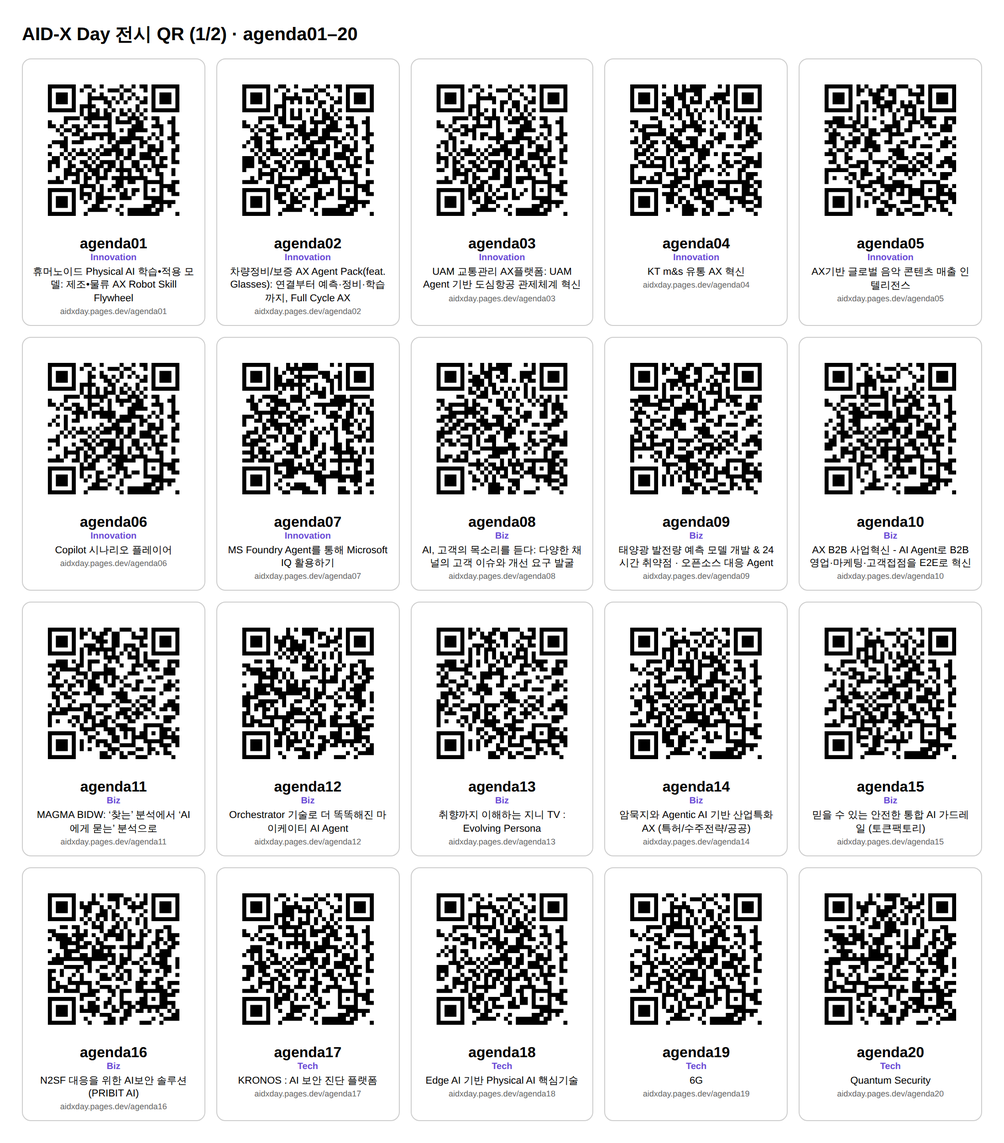
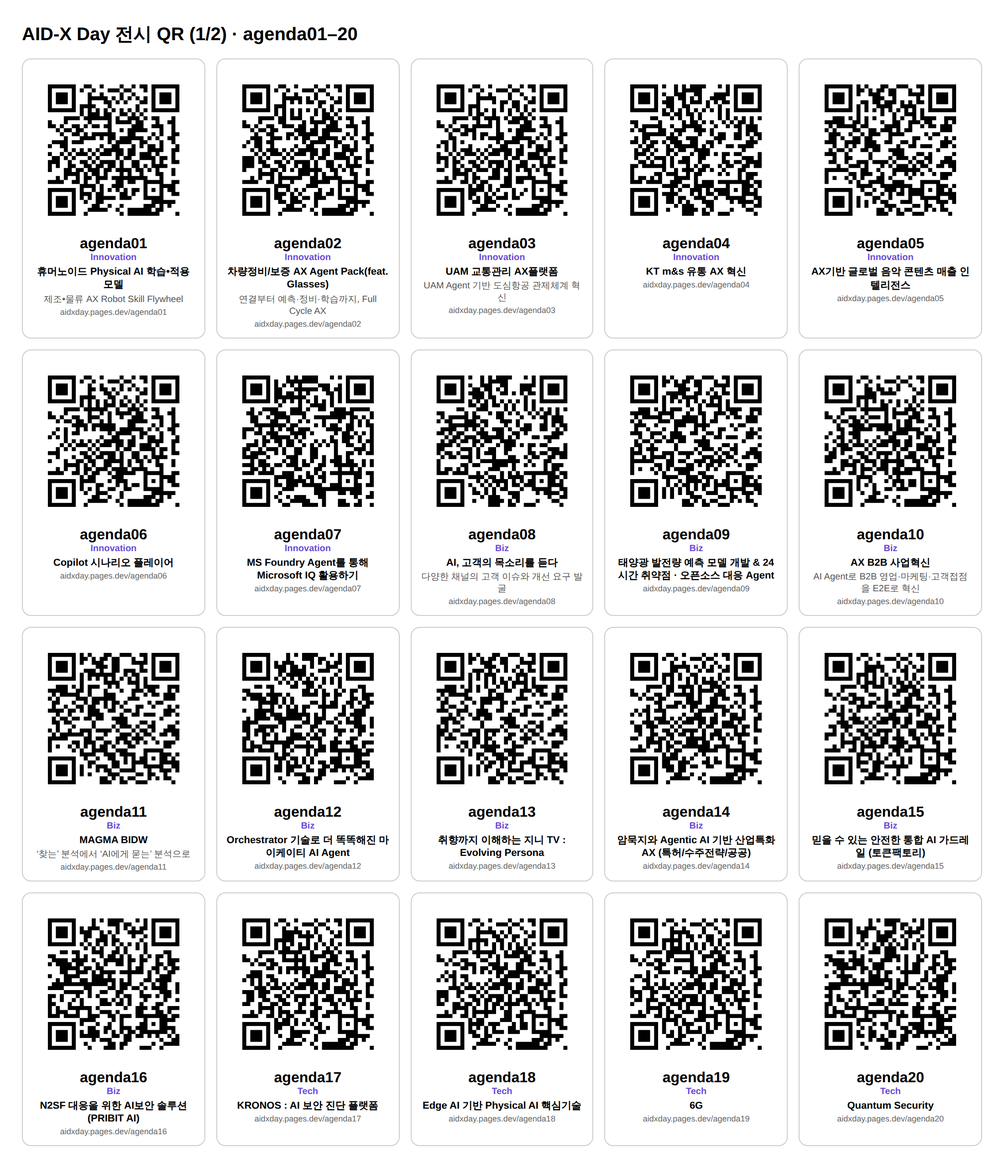
Sync aidx-day: exhibit subtitles as separate lighter line; refresh QR sheets
Claude-Session: https://claude.ai/code/session_01ERFEuNLNeBDcTGC9L6qXGy

diff --git a/aidx-day-qr/agenda/sheet-1.html b/aidx-day-qr/agenda/sheet-1.html
@@ -1,1 +1,1 @@
-<!doctype html><meta charset=utf-8><title>AID-X Day 전시 QR (1/2) · agenda01–20</title><style>body{font-family:"Apple SD Gothic Neo","Malgun Gothic",sans-serif;margin:24px;width:1052px}h1{font-size:20px}.g{display:grid;grid-template-columns:repeat(5,1fr);gap:12px}.c{border:1px solid #ccc;border-radius:10px;padding:10px;text-align:center}.c img{width:100%}.n{font-weight:800}.z{font-size:10px;color:#6a4bd6;font-weight:700}.t{font-size:11px;margin-top:3px;line-height:1.3}.u{font-size:9px;color:#666;margin-top:2px}</style><h1>AID-X Day 전시 QR (1/2) · agenda01–20</h1><div class=g><div class=c><img src="agenda01.svg"><div class=n>agenda01</div><div class=z>Innovation</div><div class=t>휴머노이드 Physical AI 학습•적용 모델: 제조•물류 AX Robot Skill Flywheel</div><div class=u>aidxday.pages.dev/agenda01</div></div><div class=c><img src="agenda02.svg"><div class=n>agenda02</div><div class=z>Innovation</div><div class=t>차량정비/보증 AX Agent Pack(feat. Glasses): 연결부터 예측·정비·학습까지, Full Cycle AX</div><div class=u>aidxday.pages.dev/agenda02</div></div><div class=c><img src="agenda03.svg"><div class=n>agenda03</div><div class=z>Innovation</div><div class=t>UAM 교통관리 AX플랫폼: UAM Agent 기반 도심항공 관제체계 혁신</div><div class=u>aidxday.pages.dev/agenda03</div></div><div class=c><img src="agenda04.svg"><div class=n>agenda04</div><div class=z>Innovation</div><div class=t>KT m&amp;s 유통 AX 혁신</div><div class=u>aidxday.pages.dev/agenda04</div></div><div class=c><img src="agenda05.svg"><div class=n>agenda05</div><div class=z>Innovation</div><div class=t>AX기반 글로벌 음악 콘텐츠 매출 인텔리전스</div><div class=u>aidxday.pages.dev/agenda05</div></div><div class=c><img src="agenda06.svg"><div class=n>agenda06</div><div class=z>Innovation</div><div class=t>Copilot 시나리오 플레이어</div><div class=u>aidxday.pages.dev/agenda06</div></div><div class=c><img src="agenda07.svg"><div class=n>agenda07</div><div class=z>Innovation</div><div class=t>MS Foundry Agent를 통해 Microsoft IQ 활용하기</div><div class=u>aidxday.pages.dev/agenda07</div></div><div class=c><img src="agenda08.svg"><div class=n>agenda08</div><div class=z>Biz</div><div class=t>AI, 고객의 목소리를 듣다: 다양한 채널의 고객 이슈와 개선 요구 발굴</div><div class=u>aidxday.pages.dev/agenda08</div></div><div class=c><img src="agenda09.svg"><div class=n>agenda09</div><div class=z>Biz</div><div class=t>태양광 발전량 예측 모델 개발 &amp; 24시간 취약점 · 오픈소스 대응 Agent</div><div class=u>aidxday.pages.dev/agenda09</div></div><div class=c><img src="agenda10.svg"><div class=n>agenda10</div><div class=z>Biz</div><div class=t>AX B2B 사업혁신 - AI Agent로 B2B 영업·마케팅·고객접점을 E2E로 혁신</div><div class=u>aidxday.pages.dev/agenda10</div></div><div class=c><img src="agenda11.svg"><div class=n>agenda11</div><div class=z>Biz</div><div class=t>MAGMA BIDW: ‘찾는’ 분석에서 ‘AI에게 묻는’ 분석으로</div><div class=u>aidxday.pages.dev/agenda11</div></div><div class=c><img src="agenda12.svg"><div class=n>agenda12</div><div class=z>Biz</div><div class=t>Orchestrator 기술로 더 똑똑해진 마이케이티 AI Agent</div><div class=u>aidxday.pages.dev/agenda12</div></div><div class=c><img src="agenda13.svg"><div class=n>agenda13</div><div class=z>Biz</div><div class=t>취향까지 이해하는 지니 TV : Evolving Persona</div><div class=u>aidxday.pages.dev/agenda13</div></div><div class=c><img src="agenda14.svg"><div class=n>agenda14</div><div class=z>Biz</div><div class=t>암묵지와 Agentic AI 기반 산업특화 AX (특허/수주전략/공공)</div><div class=u>aidxday.pages.dev/agenda14</div></div><div class=c><img src="agenda15.svg"><div class=n>agenda15</div><div class=z>Biz</div><div class=t>믿을 수 있는 안전한 통합 AI 가드레일 (토큰팩토리)</div><div class=u>aidxday.pages.dev/agenda15</div></div><div class=c><img src="agenda16.svg"><div class=n>agenda16</div><div class=z>Biz</div><div class=t>N2SF 대응을 위한 AI보안 솔루션 (PRIBIT AI)</div><div class=u>aidxday.pages.dev/agenda16</div></div><div class=c><img src="agenda17.svg"><div class=n>agenda17</div><div class=z>Tech</div><div class=t>KRONOS : AI 보안 진단 플랫폼</div><div class=u>aidxday.pages.dev/agenda17</div></div><div class=c><img src="agenda18.svg"><div class=n>agenda18</div><div class=z>Tech</div><div class=t>Edge AI 기반 Physical AI 핵심기술</div><div class=u>aidxday.pages.dev/agenda18</div></div><div class=c><img src="agenda19.svg"><div class=n>agenda19</div><div class=z>Tech</div><div class=t>6G</div><div class=u>aidxday.pages.dev/agenda19</div></div><div class=c><img src="agenda20.svg"><div class=n>agenda20</div><div class=z>Tech</div><div class=t>Quantum Security</div><div class=u>aidxday.pages.dev/agenda20</div></div></div>
+<!doctype html><meta charset=utf-8><title>AID-X Day 전시 QR (1/2) · agenda01–20</title><style>body{font-family:"Apple SD Gothic Neo","Malgun Gothic",sans-serif;margin:24px;width:1052px}h1{font-size:20px}.g{display:grid;grid-template-columns:repeat(5,1fr);gap:12px}.c{border:1px solid #ccc;border-radius:10px;padding:10px;text-align:center}.c img{width:100%}.n{font-weight:800}.z{font-size:10px;color:#6a4bd6;font-weight:700}.t{font-size:11px;margin-top:3px;line-height:1.3}.t{font-weight:700}.s{font-size:10px;color:#555;margin-top:2px;line-height:1.3}.u{font-size:9px;color:#666;margin-top:2px}</style><h1>AID-X Day 전시 QR (1/2) · agenda01–20</h1><div class=g><div class=c><img src="agenda01.svg"><div class=n>agenda01</div><div class=z>Innovation</div><div class=t>휴머노이드 Physical AI 학습•적용 모델</div><div class=s>제조•물류 AX Robot Skill Flywheel</div><div class=u>aidxday.pages.dev/agenda01</div></div><div class=c><img src="agenda02.svg"><div class=n>agenda02</div><div class=z>Innovation</div><div class=t>차량정비/보증 AX Agent Pack(feat. Glasses)</div><div class=s>연결부터 예측·정비·학습까지, Full Cycle AX</div><div class=u>aidxday.pages.dev/agenda02</div></div><div class=c><img src="agenda03.svg"><div class=n>agenda03</div><div class=z>Innovation</div><div class=t>UAM 교통관리 AX플랫폼</div><div class=s>UAM Agent 기반 도심항공 관제체계 혁신</div><div class=u>aidxday.pages.dev/agenda03</div></div><div class=c><img src="agenda04.svg"><div class=n>agenda04</div><div class=z>Innovation</div><div class=t>KT m&amp;s 유통 AX 혁신</div><div class=u>aidxday.pages.dev/agenda04</div></div><div class=c><img src="agenda05.svg"><div class=n>agenda05</div><div class=z>Innovation</div><div class=t>AX기반 글로벌 음악 콘텐츠 매출 인텔리전스</div><div class=u>aidxday.pages.dev/agenda05</div></div><div class=c><img src="agenda06.svg"><div class=n>agenda06</div><div class=z>Innovation</div><div class=t>Copilot 시나리오 플레이어</div><div class=u>aidxday.pages.dev/agenda06</div></div><div class=c><img src="agenda07.svg"><div class=n>agenda07</div><div class=z>Innovation</div><div class=t>MS Foundry Agent를 통해 Microsoft IQ 활용하기</div><div class=u>aidxday.pages.dev/agenda07</div></div><div class=c><img src="agenda08.svg"><div class=n>agenda08</div><div class=z>Biz</div><div class=t>AI, 고객의 목소리를 듣다</div><div class=s>다양한 채널의 고객 이슈와 개선 요구 발굴</div><div class=u>aidxday.pages.dev/agenda08</div></div><div class=c><img src="agenda09.svg"><div class=n>agenda09</div><div class=z>Biz</div><div class=t>태양광 발전량 예측 모델 개발 &amp; 24시간 취약점 · 오픈소스 대응 Agent</div><div class=u>aidxday.pages.dev/agenda09</div></div><div class=c><img src="agenda10.svg"><div class=n>agenda10</div><div class=z>Biz</div><div class=t>AX B2B 사업혁신</div><div class=s>AI Agent로 B2B 영업·마케팅·고객접점을 E2E로 혁신</div><div class=u>aidxday.pages.dev/agenda10</div></div><div class=c><img src="agenda11.svg"><div class=n>agenda11</div><div class=z>Biz</div><div class=t>MAGMA BIDW</div><div class=s>‘찾는’ 분석에서 ‘AI에게 묻는’ 분석으로</div><div class=u>aidxday.pages.dev/agenda11</div></div><div class=c><img src="agenda12.svg"><div class=n>agenda12</div><div class=z>Biz</div><div class=t>Orchestrator 기술로 더 똑똑해진 마이케이티 AI Agent</div><div class=u>aidxday.pages.dev/agenda12</div></div><div class=c><img src="agenda13.svg"><div class=n>agenda13</div><div class=z>Biz</div><div class=t>취향까지 이해하는 지니 TV : Evolving Persona</div><div class=u>aidxday.pages.dev/agenda13</div></div><div class=c><img src="agenda14.svg"><div class=n>agenda14</div><div class=z>Biz</div><div class=t>암묵지와 Agentic AI 기반 산업특화 AX (특허/수주전략/공공)</div><div class=u>aidxday.pages.dev/agenda14</div></div><div class=c><img src="agenda15.svg"><div class=n>agenda15</div><div class=z>Biz</div><div class=t>믿을 수 있는 안전한 통합 AI 가드레일 (토큰팩토리)</div><div class=u>aidxday.pages.dev/agenda15</div></div><div class=c><img src="agenda16.svg"><div class=n>agenda16</div><div class=z>Biz</div><div class=t>N2SF 대응을 위한 AI보안 솔루션 (PRIBIT AI)</div><div class=u>aidxday.pages.dev/agenda16</div></div><div class=c><img src="agenda17.svg"><div class=n>agenda17</div><div class=z>Tech</div><div class=t>KRONOS : AI 보안 진단 플랫폼</div><div class=u>aidxday.pages.dev/agenda17</div></div><div class=c><img src="agenda18.svg"><div class=n>agenda18</div><div class=z>Tech</div><div class=t>Edge AI 기반 Physical AI 핵심기술</div><div class=u>aidxday.pages.dev/agenda18</div></div><div class=c><img src="agenda19.svg"><div class=n>agenda19</div><div class=z>Tech</div><div class=t>6G</div><div class=u>aidxday.pages.dev/agenda19</div></div><div class=c><img src="agenda20.svg"><div class=n>agenda20</div><div class=z>Tech</div><div class=t>Quantum Security</div><div class=u>aidxday.pages.dev/agenda20</div></div></div>

diff --git a/aidx-day-qr/agenda/sheet-2.html b/aidx-day-qr/agenda/sheet-2.html
@@ -1,1 +1,1 @@
-<!doctype html><meta charset=utf-8><title>AID-X Day 전시 QR (2/2) · agenda21–40</title><style>body{font-family:"Apple SD Gothic Neo","Malgun Gothic",sans-serif;margin:24px;width:1052px}h1{font-size:20px}.g{display:grid;grid-template-columns:repeat(5,1fr);gap:12px}.c{border:1px solid #ccc;border-radius:10px;padding:10px;text-align:center}.c img{width:100%}.n{font-weight:800}.z{font-size:10px;color:#6a4bd6;font-weight:700}.t{font-size:11px;margin-top:3px;line-height:1.3}.u{font-size:9px;color:#666;margin-top:2px}</style><h1>AID-X Day 전시 QR (2/2) · agenda21–40</h1><div class=g><div class=c><img src="agenda21.svg"><div class=n>agenda21</div><div class=z>Tech</div><div class=t>Autonomous Operation: ① AI Operator</div><div class=u>aidxday.pages.dev/agenda21</div></div><div class=c><img src="agenda22.svg"><div class=n>agenda22</div><div class=z>Tech</div><div class=t>Autonomous Operation: ② Infra Robot</div><div class=u>aidxday.pages.dev/agenda22</div></div><div class=c><img src="agenda23.svg"><div class=n>agenda23</div><div class=z>Tech</div><div class=t>고객·네트워크 보호</div><div class=u>aidxday.pages.dev/agenda23</div></div><div class=c><img src="agenda24.svg"><div class=n>agenda24</div><div class=z>Work</div><div class=t>kode: - 기획부터 설계/개발 그리고 자산화까지, AI 네이티브 개발 플랫폼</div><div class=u>aidxday.pages.dev/agenda24</div></div><div class=c><img src="agenda25.svg"><div class=n>agenda25</div><div class=z>Work</div><div class=t>AI로 하는 디자인: KDS(KT Design System) 기반 기획-디자인-개발을 AI로 연계해 생산성 향상</div><div class=u>aidxday.pages.dev/agenda25</div></div><div class=c><img src="agenda26.svg"><div class=n>agenda26</div><div class=z>Work</div><div class=t>AX Works, 전사 AI·Agent 활용을 위한 통합 플랫폼</div><div class=u>aidxday.pages.dev/agenda26</div></div><div class=c><img src="agenda27.svg"><div class=n>agenda27</div><div class=z>Work</div><div class=t>AgentOps 거버넌스플랫폼 Metis.AI</div><div class=u>aidxday.pages.dev/agenda27</div></div><div class=c><img src="agenda28.svg"><div class=n>agenda28</div><div class=z>Work</div><div class=t>AI로 완성하는 코드 전환, Auto Builder</div><div class=u>aidxday.pages.dev/agenda28</div></div><div class=c><img src="agenda29.svg"><div class=n>agenda29</div><div class=z>Work</div><div class=t>AI Agent 기반 장애 분석 플랫폼</div><div class=u>aidxday.pages.dev/agenda29</div></div><div class=c><img src="agenda30.svg"><div class=n>agenda30</div><div class=z>AX Tech Connect</div><div class=t>KT AI 경쟁력 믿:음 K 3.0 / Arena</div><div class=u>aidxday.pages.dev/agenda30</div></div><div class=c><img src="agenda31.svg"><div class=n>agenda31</div><div class=z>AX Tech Connect</div><div class=t>차세대 음성 에이전트 Full-Duplex Speech to Speech</div><div class=u>aidxday.pages.dev/agenda31</div></div><div class=c><img src="agenda32.svg"><div class=n>agenda32</div><div class=z>AX Tech Connect</div><div class=t>나만의 1:1 Agent KT-Claw (모두의 AI)</div><div class=u>aidxday.pages.dev/agenda32</div></div><div class=c><img src="agenda33.svg"><div class=n>agenda33</div><div class=z>AX Tech Connect</div><div class=t>소상공인 맞춤상담 Agent (모두의 AI)</div><div class=u>aidxday.pages.dev/agenda33</div></div><div class=c><img src="agenda34.svg"><div class=n>agenda34</div><div class=z>AX Tech Connect</div><div class=t>프롬프트 압축 KompaKT (토큰팩토리)</div><div class=u>aidxday.pages.dev/agenda34</div></div><div class=c><img src="agenda35.svg"><div class=n>agenda35</div><div class=z>AX Tech Connect</div><div class=t>최적의 AI 선택 Model Router (토큰팩토리)</div><div class=u>aidxday.pages.dev/agenda35</div></div><div class=c><img src="agenda36.svg"><div class=n>agenda36</div><div class=z>AX Tech Connect</div><div class=t>기업의 데이터 의미를 이해하는 KT Ontology 구축</div><div class=u>aidxday.pages.dev/agenda36</div></div><div class=c><img src="agenda37.svg"><div class=n>agenda37</div><div class=z>AX Tech Connect</div><div class=t>기업의 업무를 실행하는 KT Ontology 활용</div><div class=u>aidxday.pages.dev/agenda37</div></div><div class=c><img src="agenda38.svg"><div class=n>agenda38</div><div class=z>AX Tech Connect</div><div class=t>통합 AI 평가 플랫폼 (AEGIS)</div><div class=u>aidxday.pages.dev/agenda38</div></div><div class=c><img src="agenda39.svg"><div class=n>agenda39</div><div class=z>AX Tech Connect</div><div class=t>문서 조각을 잇는 지도 (DocuMap)</div><div class=u>aidxday.pages.dev/agenda39</div></div><div class=c><img src="agenda40.svg"><div class=n>agenda40</div><div class=z>AX Tech Connect</div><div class=t>임상 데이터 정밀진단 의료 특화 모델</div><div class=u>aidxday.pages.dev/agenda40</div></div></div>
+<!doctype html><meta charset=utf-8><title>AID-X Day 전시 QR (2/2) · agenda21–40</title><style>body{font-family:"Apple SD Gothic Neo","Malgun Gothic",sans-serif;margin:24px;width:1052px}h1{font-size:20px}.g{display:grid;grid-template-columns:repeat(5,1fr);gap:12px}.c{border:1px solid #ccc;border-radius:10px;padding:10px;text-align:center}.c img{width:100%}.n{font-weight:800}.z{font-size:10px;color:#6a4bd6;font-weight:700}.t{font-size:11px;margin-top:3px;line-height:1.3}.t{font-weight:700}.s{font-size:10px;color:#555;margin-top:2px;line-height:1.3}.u{font-size:9px;color:#666;margin-top:2px}</style><h1>AID-X Day 전시 QR (2/2) · agenda21–40</h1><div class=g><div class=c><img src="agenda21.svg"><div class=n>agenda21</div><div class=z>Tech</div><div class=t>Autonomous Operation: ① AI Operator</div><div class=u>aidxday.pages.dev/agenda21</div></div><div class=c><img src="agenda22.svg"><div class=n>agenda22</div><div class=z>Tech</div><div class=t>Autonomous Operation: ② Infra Robot</div><div class=u>aidxday.pages.dev/agenda22</div></div><div class=c><img src="agenda23.svg"><div class=n>agenda23</div><div class=z>Tech</div><div class=t>고객·네트워크 보호</div><div class=u>aidxday.pages.dev/agenda23</div></div><div class=c><img src="agenda24.svg"><div class=n>agenda24</div><div class=z>Work</div><div class=t>kode: - 기획부터 설계/개발 그리고 자산화까지, AI 네이티브 개발 플랫폼</div><div class=u>aidxday.pages.dev/agenda24</div></div><div class=c><img src="agenda25.svg"><div class=n>agenda25</div><div class=z>Work</div><div class=t>AI로 하는 디자인</div><div class=s>KDS(KT Design System) 기반 기획-디자인-개발을 AI로 연계해 생산성 향상</div><div class=u>aidxday.pages.dev/agenda25</div></div><div class=c><img src="agenda26.svg"><div class=n>agenda26</div><div class=z>Work</div><div class=t>AX Works, 전사 AI·Agent 활용을 위한 통합 플랫폼</div><div class=u>aidxday.pages.dev/agenda26</div></div><div class=c><img src="agenda27.svg"><div class=n>agenda27</div><div class=z>Work</div><div class=t>AgentOps 거버넌스플랫폼 Metis.AI</div><div class=u>aidxday.pages.dev/agenda27</div></div><div class=c><img src="agenda28.svg"><div class=n>agenda28</div><div class=z>Work</div><div class=t>AI로 완성하는 코드 전환, Auto Builder</div><div class=u>aidxday.pages.dev/agenda28</div></div><div class=c><img src="agenda29.svg"><div class=n>agenda29</div><div class=z>Work</div><div class=t>AI Agent 기반 장애 분석 플랫폼</div><div class=u>aidxday.pages.dev/agenda29</div></div><div class=c><img src="agenda30.svg"><div class=n>agenda30</div><div class=z>AX Tech Connect</div><div class=t>KT AI 경쟁력 믿:음 K 3.0 / Arena</div><div class=u>aidxday.pages.dev/agenda30</div></div><div class=c><img src="agenda31.svg"><div class=n>agenda31</div><div class=z>AX Tech Connect</div><div class=t>차세대 음성 에이전트 Full-Duplex Speech to Speech</div><div class=u>aidxday.pages.dev/agenda31</div></div><div class=c><img src="agenda32.svg"><div class=n>agenda32</div><div class=z>AX Tech Connect</div><div class=t>나만의 1:1 Agent KT-Claw (모두의 AI)</div><div class=u>aidxday.pages.dev/agenda32</div></div><div class=c><img src="agenda33.svg"><div class=n>agenda33</div><div class=z>AX Tech Connect</div><div class=t>소상공인 맞춤상담 Agent (모두의 AI)</div><div class=u>aidxday.pages.dev/agenda33</div></div><div class=c><img src="agenda34.svg"><div class=n>agenda34</div><div class=z>AX Tech Connect</div><div class=t>프롬프트 압축 KompaKT (토큰팩토리)</div><div class=u>aidxday.pages.dev/agenda34</div></div><div class=c><img src="agenda35.svg"><div class=n>agenda35</div><div class=z>AX Tech Connect</div><div class=t>최적의 AI 선택 Model Router (토큰팩토리)</div><div class=u>aidxday.pages.dev/agenda35</div></div><div class=c><img src="agenda36.svg"><div class=n>agenda36</div><div class=z>AX Tech Connect</div><div class=t>기업의 데이터 의미를 이해하는 KT Ontology 구축</div><div class=u>aidxday.pages.dev/agenda36</div></div><div class=c><img src="agenda37.svg"><div class=n>agenda37</div><div class=z>AX Tech Connect</div><div class=t>기업의 업무를 실행하는 KT Ontology 활용</div><div class=u>aidxday.pages.dev/agenda37</div></div><div class=c><img src="agenda38.svg"><div class=n>agenda38</div><div class=z>AX Tech Connect</div><div class=t>통합 AI 평가 플랫폼 (AEGIS)</div><div class=u>aidxday.pages.dev/agenda38</div></div><div class=c><img src="agenda39.svg"><div class=n>agenda39</div><div class=z>AX Tech Connect</div><div class=t>문서 조각을 잇는 지도 (DocuMap)</div><div class=u>aidxday.pages.dev/agenda39</div></div><div class=c><img src="agenda40.svg"><div class=n>agenda40</div><div class=z>AX Tech Connect</div><div class=t>임상 데이터 정밀진단 의료 특화 모델</div><div class=u>aidxday.pages.dev/agenda40</div></div></div>

diff --git a/aidx-day/exhibits.js b/aidx-day/exhibits.js
@@ -6,6 +6,7 @@
    part    : 아래 PARTS의 키 (works / biz / innovation / tech)
    label   : 제목 앞 말머리 (예: "Garage") — 선택
    title   : 전시 제목 (여러 개면 ["(1) ...", "(2) ..."] 배열로)
+   sub     : 부제목 — 제목 아래 작고 가는 글씨로 보여요 (선택)
    team    : 사이트에 보이는 담당 조직 (리플릿 테이블보드의 본부/조직)
    org     : 담당 부문 (기록용, 화면에는 안 보여요)
    ── 아래는 준비되는 대로 채우면 돼요. 비어 있으면 화면에서 숨기거나 '준비 중'으로 보여요.
@@ -39,11 +40,11 @@ const EXHIBIT_HOURS = "10.15 (목) 10:00–17:00";
 const EXHIBITS = [
   // ---------------- Innovation (7) ----------------
   { id: "agenda01", part: "innovation", org: "IT부문", team: "IT플랫폼본부",
-    title: "휴머노이드 Physical AI 학습•적용 모델: 제조•물류 AX Robot Skill Flywheel" },
+    title: "휴머노이드 Physical AI 학습•적용 모델", sub: "제조•물류 AX Robot Skill Flywheel" },
   { id: "agenda02", part: "innovation", org: "IT부문", team: "IT플랫폼본부",
-    title: "차량정비/보증 AX Agent Pack(feat. Glasses): 연결부터 예측·정비·학습까지, Full Cycle AX" },
+    title: "차량정비/보증 AX Agent Pack(feat. Glasses)", sub: "연결부터 예측·정비·학습까지, Full Cycle AX" },
   { id: "agenda03", part: "innovation", org: "IT부문", team: "AX플랫폼본부",
-    title: "UAM 교통관리 AX플랫폼: UAM Agent 기반 도심항공 관제체계 혁신" },
+    title: "UAM 교통관리 AX플랫폼", sub: "UAM Agent 기반 도심항공 관제체계 혁신" },
   { id: "agenda04", part: "innovation", org: "그룹사", team: "KT m&s",
     title: "KT m&s 유통 AX 혁신" },
   { id: "agenda05", part: "innovation", org: "그룹사", team: "kt genie music",
@@ -55,13 +56,13 @@ const EXHIBITS = [
 
   // ---------------- Biz (9) ----------------
   { id: "agenda08", part: "biz", org: "IT부문", team: "IT플랫폼본부",
-    title: "AI, 고객의 목소리를 듣다: 다양한 채널의 고객 이슈와 개선 요구 발굴" },
+    title: "AI, 고객의 목소리를 듣다", sub: "다양한 채널의 고객 이슈와 개선 요구 발굴" },
   { id: "agenda09", part: "biz", org: "IT부문", team: "IT플랫폼본부",
     title: "태양광 발전량 예측 모델 개발 & 24시간 취약점 · 오픈소스 대응 Agent" },
   { id: "agenda10", part: "biz", org: "Enterprise부문/IT부문", team: "Enterprise전략본부 · IT플랫폼본부",
-    title: "AX B2B 사업혁신 - AI Agent로 B2B 영업·마케팅·고객접점을 E2E로 혁신" },
+    title: "AX B2B 사업혁신", sub: "AI Agent로 B2B 영업·마케팅·고객접점을 E2E로 혁신" },
   { id: "agenda11", part: "biz", org: "IT부문", team: "AX플랫폼본부",
-    title: "MAGMA BIDW: ‘찾는’ 분석에서 ‘AI에게 묻는’ 분석으로" },
+    title: "MAGMA BIDW", sub: "‘찾는’ 분석에서 ‘AI에게 묻는’ 분석으로" },
   { id: "agenda12", part: "biz", org: "AX미래기술원/IT부문", team: "Agentic AI Lab · AX플랫폼본부",
     title: "Orchestrator 기술로 더 똑똑해진 마이케이티 AI Agent" },
   { id: "agenda13", part: "biz", org: "AX미래기술원", team: "Agentic AI Lab",
@@ -93,7 +94,7 @@ const EXHIBITS = [
   { id: "agenda24", part: "works", org: "IT부문", team: "IT전략본부",
     title: "kode: - 기획부터 설계/개발 그리고 자산화까지, AI 네이티브 개발 플랫폼" },
   { id: "agenda25", part: "works", org: "IT부문", team: "AX플랫폼본부",
-    title: "AI로 하는 디자인: KDS(KT Design System) 기반 기획-디자인-개발을 AI로 연계해 생산성 향상" },
+    title: "AI로 하는 디자인", sub: "KDS(KT Design System) 기반 기획-디자인-개발을 AI로 연계해 생산성 향상" },
   { id: "agenda26", part: "works", org: "IT부문", team: "AX플랫폼본부",
     title: "AX Works, 전사 AI·Agent 활용을 위한 통합 플랫폼" },
   { id: "agenda27", part: "works", org: "그룹사", team: "kt ds",
@@ -127,6 +128,7 @@ const ALL_EXHIBITS = [...EXHIBITS, ...TECH_CONNECT.items.map(x => ({ ...x, part:
 
 // 화면 표시용 도우미 (목록·상세 페이지 공통)
 const exTitles = e => Array.isArray(e.title) ? e.title : [e.title];
-const exTitleText = e => (e.label ? `[${e.label}] ` : "") + exTitles(e).join(" / ");
+const exTitleMain = e => (e.label ? `[${e.label}] ` : "") + exTitles(e).join(" / ");
+const exTitleText = e => exTitleMain(e) + (e.sub ? " " + e.sub : "");  // 페이지 제목·미리보기용 (부제목 포함)
 const exTeam = e => e.team;
 const exNo = e => e.id.replace(/\D/g, "");

diff --git a/aidx-day/agenda.js b/aidx-day/agenda.js
@@ -58,6 +58,7 @@
     titles.length > 1
       ? h("h1", { class: "multi" }, titles.map(t => h("span", {}, t)))
       : h("h1", {}, titles[0]),
+    x.sub ? h("p", { class: "subtitle" }, x.sub) : null,
     exTeam(x) ? h("div", { class: "team" }, exTeam(x)) : null,
     x.summary ? h("p", { class: "summary" }, x.summary) : null);
 
@@ -90,13 +91,13 @@
   const group = LIST.filter(e => (e.part === "connect") === isConnect), gi = group.indexOf(x);
   const prev = group[gi - 1], next = group[gi + 1];
   const pager = h("nav", { class: "pager", "aria-label": "이전·다음 전시" },
-    prev ? h("a", { href: prev.id }, h("small", {}, "← 이전 전시"), h("span", {}, exTitleText(prev))) : h("span", { class: "empty" }),
-    next ? h("a", { class: "next", href: next.id }, h("small", {}, "다음 전시 →"), h("span", {}, exTitleText(next))) : h("span", { class: "empty" }));
+    prev ? h("a", { href: prev.id }, h("small", {}, "← 이전 전시"), h("span", {}, exTitleMain(prev))) : h("span", { class: "empty" }),
+    next ? h("a", { class: "next", href: next.id }, h("small", {}, "다음 전시 →"), h("span", {}, exTitleMain(next))) : h("span", { class: "empty" }));
 
   const others = LIST.filter(e => e.part === x.part && e.id !== x.id);
   const same = others.length ? h("section", { class: "card" },
     h("h2", { class: "label" }, isConnect ? `${part.name} 다른 전시` : `${part.name} 존 다른 전시`),
-    h("ul", { class: "same" }, others.map(e => h("li", {}, h("a", { href: e.id }, h("span", { class: "b" }, exNo(e)), h("span", { class: "t" }, exTitleText(e))))))) : null;
+    h("ul", { class: "same" }, others.map(e => h("li", {}, h("a", { href: e.id }, h("span", { class: "b" }, exNo(e)), h("span", { class: "t" }, exTitleMain(e), e.sub ? h("small", {}, e.sub) : null)))))) : null;
 
   side.append(same);
   app.append(h("div", { class: "wrap" }, head, visual,

diff --git a/aidx-day/index.html b/aidx-day/index.html
@@ -439,6 +439,7 @@
   .ex-title { font-size: 16px; font-weight: 800; line-height: 1.38; }
   .ex-title span { display: block; }
   .ex-title span + span { margin-top: 4px; }
+  .ex-sub { font-size: 13.5px; font-weight: 500; color: var(--ink); opacity: .78; line-height: 1.45; margin-top: 4px; }
   .ex-team { font-size: 13px; color: var(--ink-dim); margin-top: 6px; }
   .ex-sum { font-size: 14px; color: var(--ink-dim); margin-top: 8px; }
   .ex-more { font-size: 13px; font-weight: 800; color: var(--c); margin-top: 10px; }
@@ -1246,6 +1247,7 @@ function renderExhibits(v) {
           h("span", { class: "ex-no" }, `Agenda ${exNo(e)}`),
           e.label || e.booth ? h("span", { class: "badge", style: `--c:${p.color}` }, e.label || e.booth) : null),
         h("div", { class: "ex-title" }, exTitles(e).map(t => h("span", {}, t))),
+        e.sub ? h("div", { class: "ex-sub" }, e.sub) : null,
         h("div", { class: "ex-team" }, exTeam(e)),
         e.summary ? h("div", { class: "ex-sum" }, e.summary) : null,
         h("div", { class: "ex-more" }, "자세히 보기 →"))))));

diff --git a/aidx-day/agenda25.html b/aidx-day/agenda25.html
@@ -4,9 +4,9 @@
 <meta charset="utf-8">
 <meta name="viewport" content="width=device-width, initial-scale=1, viewport-fit=cover">
 <meta name="theme-color" content="#0a0a1f">
-<title>AI로 하는 디자인: KDS(KT Design System) 기반 기획-디자인-개발을 AI로 연계해 생산성 향상 · AID-X Day 전시</title>
+<title>AI로 하는 디자인 KDS(KT Design System) 기반 기획-디자인-개발을 AI로 연계해 생산성 향상 · AID-X Day 전시</title>
 <meta name="description" content="AX플랫폼본부 · AID-X Day 전시">
-<meta property="og:title" content="AI로 하는 디자인: KDS(KT Design System) 기반 기획-디자인-개발을 AI로 연계해 생산성 향상 · AID-X Day 전시">
+<meta property="og:title" content="AI로 하는 디자인 KDS(KT Design System) 기반 기획-디자인-개발을 AI로 연계해 생산성 향상 · AID-X Day 전시">
 <meta property="og:description" content="AX플랫폼본부 · AID-X Day 전시">
 <link rel="stylesheet" href="agenda.css">
 </head>

diff --git a/aidx-day/agenda02.html b/aidx-day/agenda02.html
@@ -4,9 +4,9 @@
 <meta charset="utf-8">
 <meta name="viewport" content="width=device-width, initial-scale=1, viewport-fit=cover">
 <meta name="theme-color" content="#0a0a1f">
-<title>차량정비/보증 AX Agent Pack(feat. Glasses): 연결부터 예측·정비·학습까지, Full Cycle AX · AID-X Day 전시</title>
+<title>차량정비/보증 AX Agent Pack(feat. Glasses) 연결부터 예측·정비·학습까지, Full Cycle AX · AID-X Day 전시</title>
 <meta name="description" content="IT플랫폼본부 · AID-X Day 전시">
-<meta property="og:title" content="차량정비/보증 AX Agent Pack(feat. Glasses): 연결부터 예측·정비·학습까지, Full Cycle AX · AID-X Day 전시">
+<meta property="og:title" content="차량정비/보증 AX Agent Pack(feat. Glasses) 연결부터 예측·정비·학습까지, Full Cycle AX · AID-X Day 전시">
 <meta property="og:description" content="IT플랫폼본부 · AID-X Day 전시">
 <link rel="stylesheet" href="agenda.css">
 </head>

diff --git a/aidx-day/agenda10.html b/aidx-day/agenda10.html
@@ -4,9 +4,9 @@
 <meta charset="utf-8">
 <meta name="viewport" content="width=device-width, initial-scale=1, viewport-fit=cover">
 <meta name="theme-color" content="#0a0a1f">
-<title>AX B2B 사업혁신 - AI Agent로 B2B 영업·마케팅·고객접점을 E2E로 혁신 · AID-X Day 전시</title>
+<title>AX B2B 사업혁신 AI Agent로 B2B 영업·마케팅·고객접점을 E2E로 혁신 · AID-X Day 전시</title>
 <meta name="description" content="Enterprise전략본부 · IT플랫폼본부 · AID-X Day 전시">
-<meta property="og:title" content="AX B2B 사업혁신 - AI Agent로 B2B 영업·마케팅·고객접점을 E2E로 혁신 · AID-X Day 전시">
+<meta property="og:title" content="AX B2B 사업혁신 AI Agent로 B2B 영업·마케팅·고객접점을 E2E로 혁신 · AID-X Day 전시">
 <meta property="og:description" content="Enterprise전략본부 · IT플랫폼본부 · AID-X Day 전시">
 <link rel="stylesheet" href="agenda.css">
 </head>

diff --git a/aidx-day/agenda08.html b/aidx-day/agenda08.html
@@ -4,9 +4,9 @@
 <meta charset="utf-8">
 <meta name="viewport" content="width=device-width, initial-scale=1, viewport-fit=cover">
 <meta name="theme-color" content="#0a0a1f">
-<title>AI, 고객의 목소리를 듣다: 다양한 채널의 고객 이슈와 개선 요구 발굴 · AID-X Day 전시</title>
+<title>AI, 고객의 목소리를 듣다 다양한 채널의 고객 이슈와 개선 요구 발굴 · AID-X Day 전시</title>
 <meta name="description" content="IT플랫폼본부 · AID-X Day 전시">
-<meta property="og:title" content="AI, 고객의 목소리를 듣다: 다양한 채널의 고객 이슈와 개선 요구 발굴 · AID-X Day 전시">
+<meta property="og:title" content="AI, 고객의 목소리를 듣다 다양한 채널의 고객 이슈와 개선 요구 발굴 · AID-X Day 전시">
 <meta property="og:description" content="IT플랫폼본부 · AID-X Day 전시">
 <link rel="stylesheet" href="agenda.css">
 </head>

diff --git a/aidx-day/agenda01.html b/aidx-day/agenda01.html
@@ -4,9 +4,9 @@
 <meta charset="utf-8">
 <meta name="viewport" content="width=device-width, initial-scale=1, viewport-fit=cover">
 <meta name="theme-color" content="#0a0a1f">
-<title>휴머노이드 Physical AI 학습•적용 모델: 제조•물류 AX Robot Skill Flywheel · AID-X Day 전시</title>
+<title>휴머노이드 Physical AI 학습•적용 모델 제조•물류 AX Robot Skill Flywheel · AID-X Day 전시</title>
 <meta name="description" content="IT플랫폼본부 · AID-X Day 전시">
-<meta property="og:title" content="휴머노이드 Physical AI 학습•적용 모델: 제조•물류 AX Robot Skill Flywheel · AID-X Day 전시">
+<meta property="og:title" content="휴머노이드 Physical AI 학습•적용 모델 제조•물류 AX Robot Skill Flywheel · AID-X Day 전시">
 <meta property="og:description" content="IT플랫폼본부 · AID-X Day 전시">
 <link rel="stylesheet" href="agenda.css">
 </head>

diff --git a/aidx-day/agenda03.html b/aidx-day/agenda03.html
@@ -4,9 +4,9 @@
 <meta charset="utf-8">
 <meta name="viewport" content="width=device-width, initial-scale=1, viewport-fit=cover">
 <meta name="theme-color" content="#0a0a1f">
-<title>UAM 교통관리 AX플랫폼: UAM Agent 기반 도심항공 관제체계 혁신 · AID-X Day 전시</title>
+<title>UAM 교통관리 AX플랫폼 UAM Agent 기반 도심항공 관제체계 혁신 · AID-X Day 전시</title>
 <meta name="description" content="AX플랫폼본부 · AID-X Day 전시">
-<meta property="og:title" content="UAM 교통관리 AX플랫폼: UAM Agent 기반 도심항공 관제체계 혁신 · AID-X Day 전시">
+<meta property="og:title" content="UAM 교통관리 AX플랫폼 UAM Agent 기반 도심항공 관제체계 혁신 · AID-X Day 전시">
 <meta property="og:description" content="AX플랫폼본부 · AID-X Day 전시">
 <link rel="stylesheet" href="agenda.css">
 </head>

diff --git a/aidx-day/agenda.css b/aidx-day/agenda.css
@@ -90,6 +90,7 @@ a { color: inherit; }
 .head h1.multi span { display: block; }
 .head h1.multi span + span { margin-top: 6px; }
 .card p.pending { color: var(--ink-dim); }
+.head .subtitle { margin: -2px 0 12px; font-size: clamp(16px, 4.2vw, 20px); font-weight: 500; line-height: 1.45; opacity: .82; }
 .head .team { color: var(--ink-dim); font-size: 15px; margin-bottom: 12px; }
 .head .summary { font-size: 17px; margin: 0; }
 
@@ -175,6 +176,7 @@ a { color: inherit; }
 .same a:hover { border-color: var(--c); }
 .same .b { font-size: 12px; font-weight: 800; color: var(--c); font-variant-numeric: tabular-nums; }
 .same .t { font-size: 14px; font-weight: 600; }
+.same .t small { display: block; font-size: 12.5px; font-weight: 400; color: var(--ink-dim); margin-top: 2px; }
 
 .notfound { text-align: center; padding: 60px 0; }
 .notfound h1 { font-size: 22px; }
